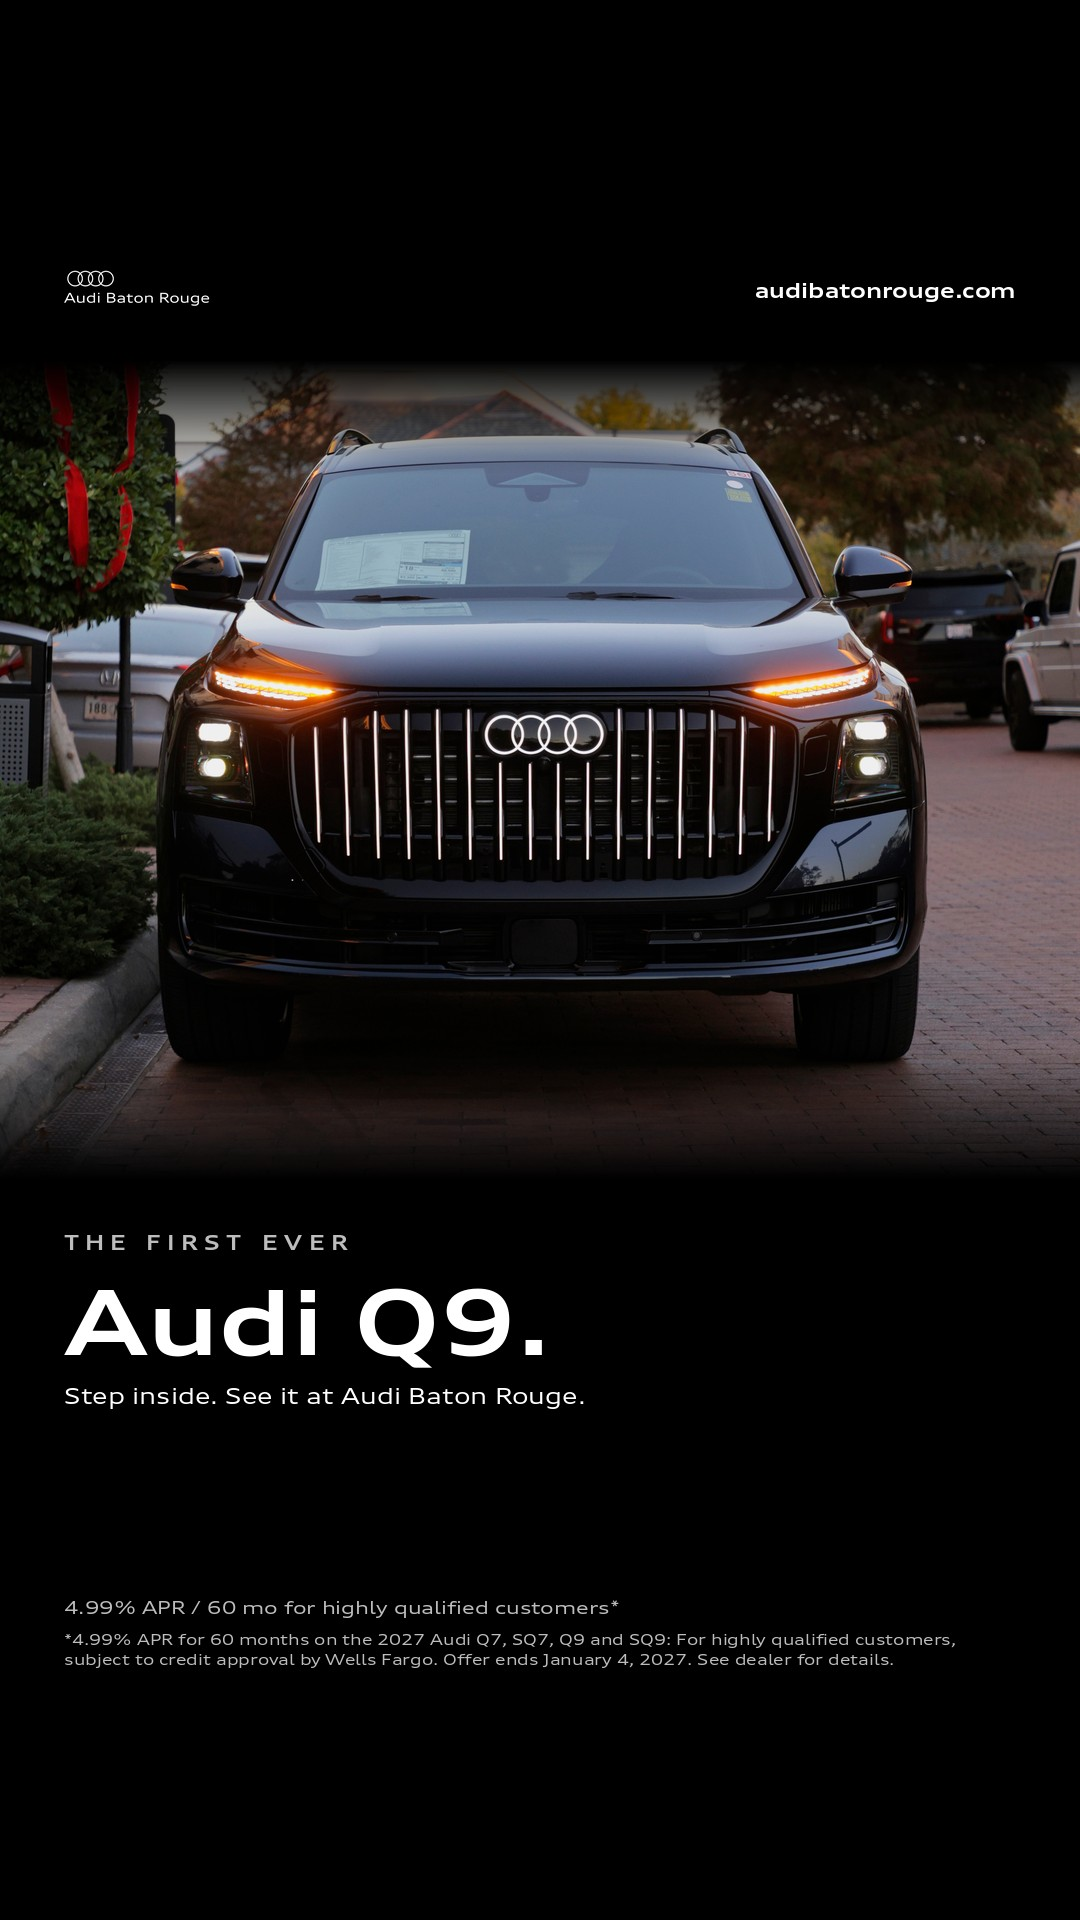
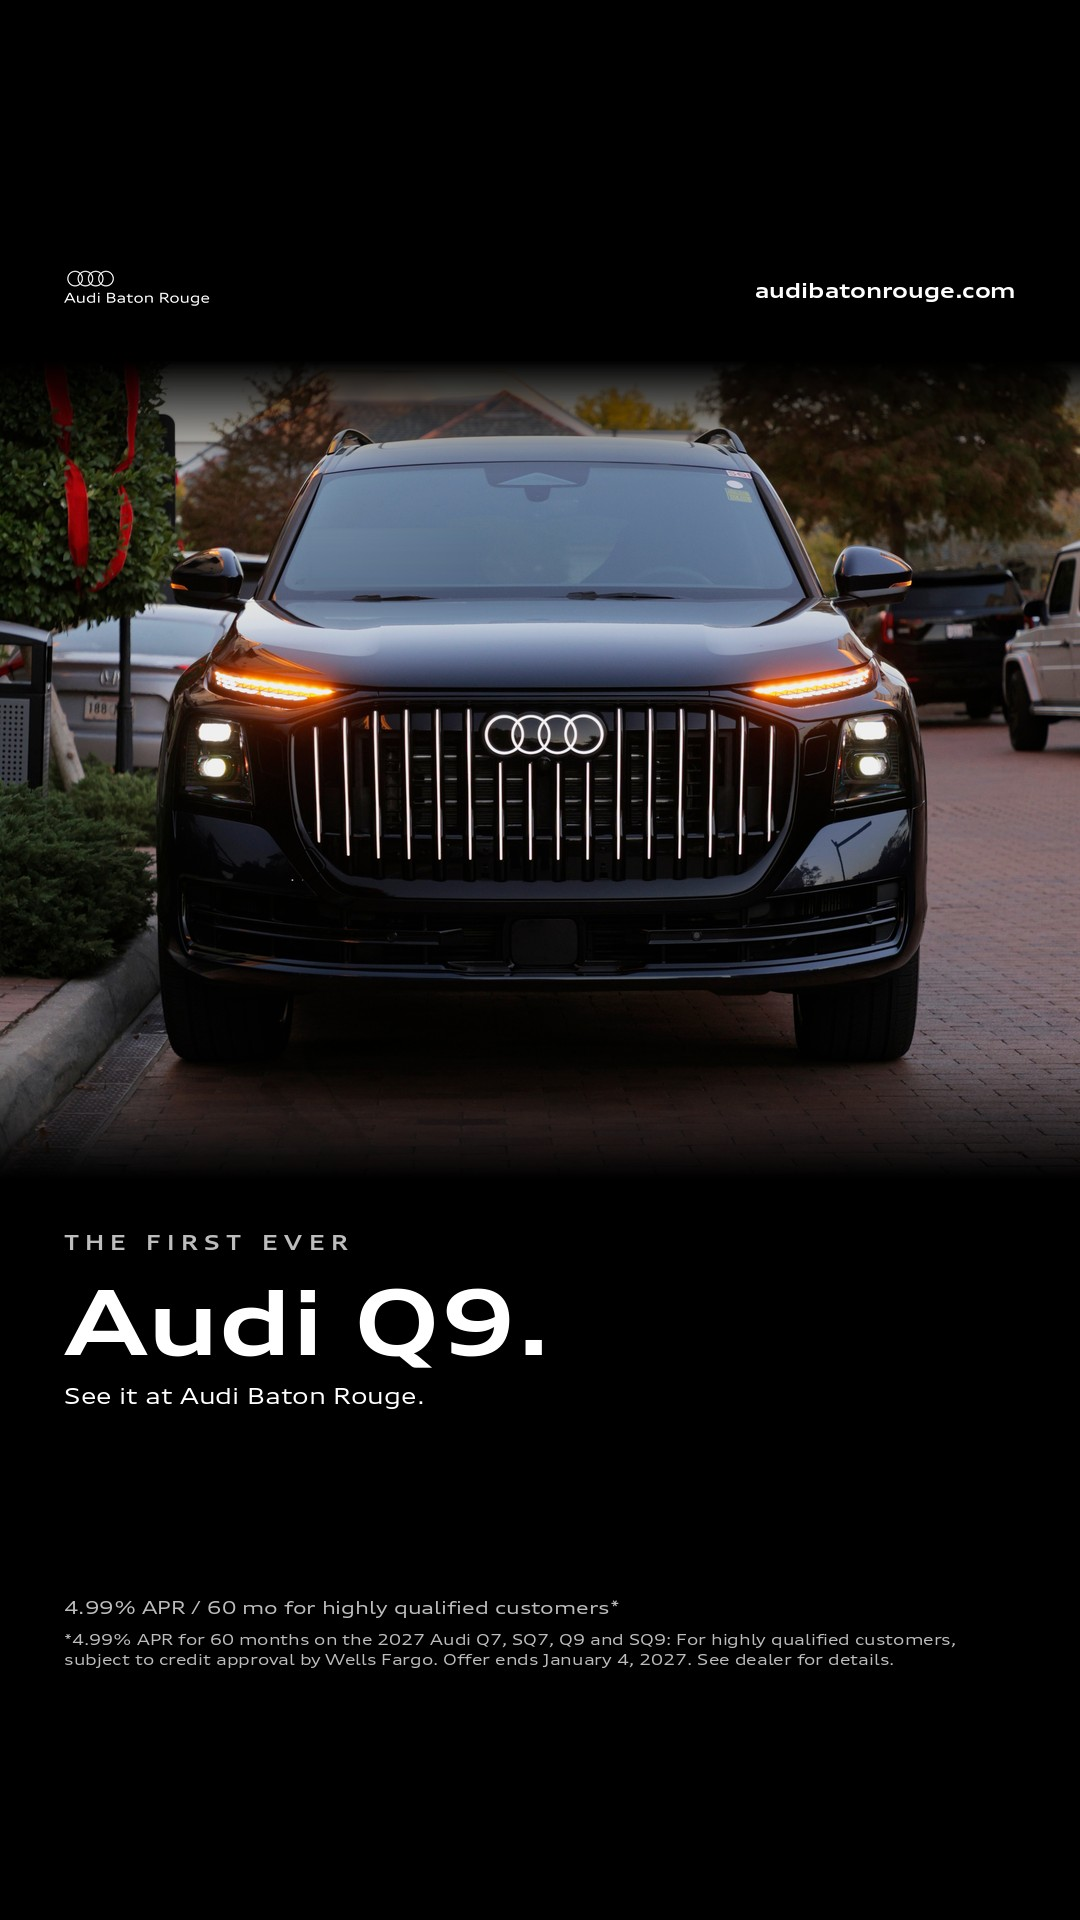
review(hub): ABR Q9 C line + caption tweak, sticker retouched in ad crop

Changed region(s): [[0.275, 0.25, 0.4583, 0.3438], [0.0917, 0.7188, 0.4278, 0.75], [0.4583, 0.7188, 0.5194, 0.75]]

diff --git a/social/abr-holiday-model-ads-2026.html b/social/abr-holiday-model-ads-2026.html
@@ -19,10 +19,10 @@ ul{font-size:14px} @media(max-width:700px){.pair{grid-template-columns:1fr}}
 <p>Four looks, one per model, with three variants each in 4:5 feed and 9:16 story. They rotate once a week per model from Nov 19 through Jan 3. Every offer ends January 4, 2027.</p>
 <div class="note"><strong>Draft for Lance.</strong> Not approved, not scheduled, not published. Nothing goes into Post Engine until you approve here in chat.</div></div></div>
 <div class="wrap">
-<div class="sheet"><img src="abr-holiday-model-ads-2026/contact-sheet.jpg?v=nov12" alt="Contact sheet of all 24 ad files"><p class="sub">Contact sheet: all 24 files</p></div>
+<div class="sheet"><img src="abr-holiday-model-ads-2026/contact-sheet.jpg?v=nov12b" alt="Contact sheet of all 24 ad files"><p class="sub">Contact sheet: all 24 files</p></div>
 <h2>Open questions</h2><ul>
 <li><b>Q5 photo:</b> hi-res country-club Q5 (Lance's shoot). It's a non-S Q5; please confirm it's a 2026 Premium Plus. The "2026 Q5 Black Optics" set reads as an SQ5 (S grille badge, quad tips), so I didn't use it.</li>
-<li><b>Q9</b> now uses Lance-approved photos of the blue 2027 Q9 shot at ABR on Nov 12: A #104 (night, lit grille), B #064 (rear 3/4, autumn road), C #049 (dusk, holiday greenery). Layout and copy are unchanged. Note: the C line still says &ldquo;Step inside,&rdquo; but C is now an exterior.</li>
+<li><b>Q9</b> now uses Lance-approved photos of the blue 2027 Q9 shot at ABR on Nov 12: A #104 (night, lit grille), B #064 (rear 3/4, autumn road), C #049 (dusk, holiday greenery). Layout and copy are unchanged.</li>
 <li><b>2026 Q7</b> uses the store's 2026 Q7 S line showroom shoot only (no 2027 photos). The same shoot appeared in earlier posts.</li>
 <li><b>9:16 stills</b> as IG/FB Stories through Post Engine aren't verified yet. They can become short zoom reels if needed.</li></ul>
 <section class="model"><h2>2026 Audi Q5</h2><p class="sub">Performance and value hero · 1.99% APR / 60 mo, $4,000 off, $2,500 Audi bonus, up to $6,500 off</p><p class="sched"><b>Proposed weekly slots (not scheduled):</b> Thu Nov 19 (A), Wed Nov 25 (B), Thu Dec 3 (C), Thu Dec 10 (A), Thu Dec 17 (B), Wed Dec 23 (C), Thu Dec 31 (A)</p><article class="post"><h3>A · hero exterior</h3>
@@ -302,8 +302,8 @@ Audi Baton Rouge · 11955 Airline Hwy, Baton Rouge, LA 70817 · (225) 686-6012
 *4.99% APR for 60 months on the 2027 Audi Q7, SQ7, Q9 and SQ9: For highly qualified customers, subject to credit approval by Wells Fargo. Offer ends January 4, 2027. See dealer for details.
 
 #AudiQ7 #AudiBatonRouge #quattro</pre></details></article></section><section class="model"><h2>Audi Q9</h2><p class="sub">Flagship cinematic · 4.99% APR as a small secondary line only</p><p class="sched"><b>Proposed weekly slots (not scheduled):</b> Mon Nov 23 (A), Mon Nov 30 (B), Mon Dec 7 (C), Mon Dec 14 (A), Mon Dec 21 (B), Mon Dec 28 (C)</p><article class="post"><h3>A · hero exterior</h3>
-<div class="pair"><figure><img src="abr-holiday-model-ads-2026/abr-q9-a-4x5.jpg?v=nov12" alt="Audi Q9 A · hero exterior 4:5" loading="lazy"><figcaption>Feed 4:5 · 1080×1350</figcaption></figure>
-<figure><img src="abr-holiday-model-ads-2026/abr-q9-a-9x16.jpg?v=nov12" alt="Audi Q9 A · hero exterior 9:16" loading="lazy"><figcaption>Story 9:16 · 1080×1920</figcaption></figure></div>
+<div class="pair"><figure><img src="abr-holiday-model-ads-2026/abr-q9-a-4x5.jpg?v=nov12b" alt="Audi Q9 A · hero exterior 4:5" loading="lazy"><figcaption>Feed 4:5 · 1080×1350</figcaption></figure>
+<figure><img src="abr-holiday-model-ads-2026/abr-q9-a-9x16.jpg?v=nov12b" alt="Audi Q9 A · hero exterior 9:16" loading="lazy"><figcaption>Story 9:16 · 1080×1920</figcaption></figure></div>
 <details><summary>Instagram caption</summary><pre>The first ever Audi Q9.
 
 Now at Audi Baton Rouge.
@@ -328,8 +328,8 @@ Audi Baton Rouge · 11955 Airline Hwy, Baton Rouge, LA 70817 · (225) 686-6012
 *4.99% APR for 60 months on the 2027 Audi Q7, SQ7, Q9 and SQ9: For highly qualified customers, subject to credit approval by Wells Fargo. Offer ends January 4, 2027. See dealer for details.
 
 #AudiQ9 #AudiBatonRouge #Audi</pre></details></article><article class="post"><h3>B · side / rear 3/4</h3>
-<div class="pair"><figure><img src="abr-holiday-model-ads-2026/abr-q9-b-4x5.jpg?v=nov12" alt="Audi Q9 B · side / rear 3/4 4:5" loading="lazy"><figcaption>Feed 4:5 · 1080×1350</figcaption></figure>
-<figure><img src="abr-holiday-model-ads-2026/abr-q9-b-9x16.jpg?v=nov12" alt="Audi Q9 B · side / rear 3/4 9:16" loading="lazy"><figcaption>Story 9:16 · 1080×1920</figcaption></figure></div>
+<div class="pair"><figure><img src="abr-holiday-model-ads-2026/abr-q9-b-4x5.jpg?v=nov12b" alt="Audi Q9 B · side / rear 3/4 4:5" loading="lazy"><figcaption>Feed 4:5 · 1080×1350</figcaption></figure>
+<figure><img src="abr-holiday-model-ads-2026/abr-q9-b-9x16.jpg?v=nov12b" alt="Audi Q9 B · side / rear 3/4 9:16" loading="lazy"><figcaption>Story 9:16 · 1080×1920</figcaption></figure></div>
 <details><summary>Instagram caption</summary><pre>The first ever Audi Q9. See it at Audi Baton Rouge.
 
 Now at Audi Baton Rouge.
@@ -354,9 +354,9 @@ Audi Baton Rouge · 11955 Airline Hwy, Baton Rouge, LA 70817 · (225) 686-6012
 *4.99% APR for 60 months on the 2027 Audi Q7, SQ7, Q9 and SQ9: For highly qualified customers, subject to credit approval by Wells Fargo. Offer ends January 4, 2027. See dealer for details.
 
 #AudiQ9 #AudiBatonRouge #Audi</pre></details></article><article class="post"><h3>C · detail / interior</h3>
-<div class="pair"><figure><img src="abr-holiday-model-ads-2026/abr-q9-c-4x5.jpg?v=nov12" alt="Audi Q9 C · detail / interior 4:5" loading="lazy"><figcaption>Feed 4:5 · 1080×1350</figcaption></figure>
-<figure><img src="abr-holiday-model-ads-2026/abr-q9-c-9x16.jpg?v=nov12" alt="Audi Q9 C · detail / interior 9:16" loading="lazy"><figcaption>Story 9:16 · 1080×1920</figcaption></figure></div>
-<details><summary>Instagram caption</summary><pre>Step inside the first ever Audi Q9.
+<div class="pair"><figure><img src="abr-holiday-model-ads-2026/abr-q9-c-4x5.jpg?v=nov12b" alt="Audi Q9 C · detail / interior 4:5" loading="lazy"><figcaption>Feed 4:5 · 1080×1350</figcaption></figure>
+<figure><img src="abr-holiday-model-ads-2026/abr-q9-c-9x16.jpg?v=nov12b" alt="Audi Q9 C · detail / interior 9:16" loading="lazy"><figcaption>Story 9:16 · 1080×1920</figcaption></figure></div>
+<details><summary>Instagram caption</summary><pre>See the first ever Audi Q9 at Audi Baton Rouge.
 
 Now at Audi Baton Rouge.
 
@@ -368,7 +368,7 @@ Audi Baton Rouge · 11955 Airline Hwy, Baton Rouge, LA 70817 · (225) 686-6012
 *4.99% APR for 60 months on the 2027 Audi Q7, SQ7, Q9 and SQ9: For highly qualified customers, subject to credit approval by Wells Fargo. Offer ends January 4, 2027. See dealer for details.
 
 #AudiQ9 #AudiBatonRouge #Audi</pre></details>
-<details><summary>Facebook caption</summary><pre>Step inside the first ever Audi Q9.
+<details><summary>Facebook caption</summary><pre>See the first ever Audi Q9 at Audi Baton Rouge.
 
 Now at Audi Baton Rouge.
 
